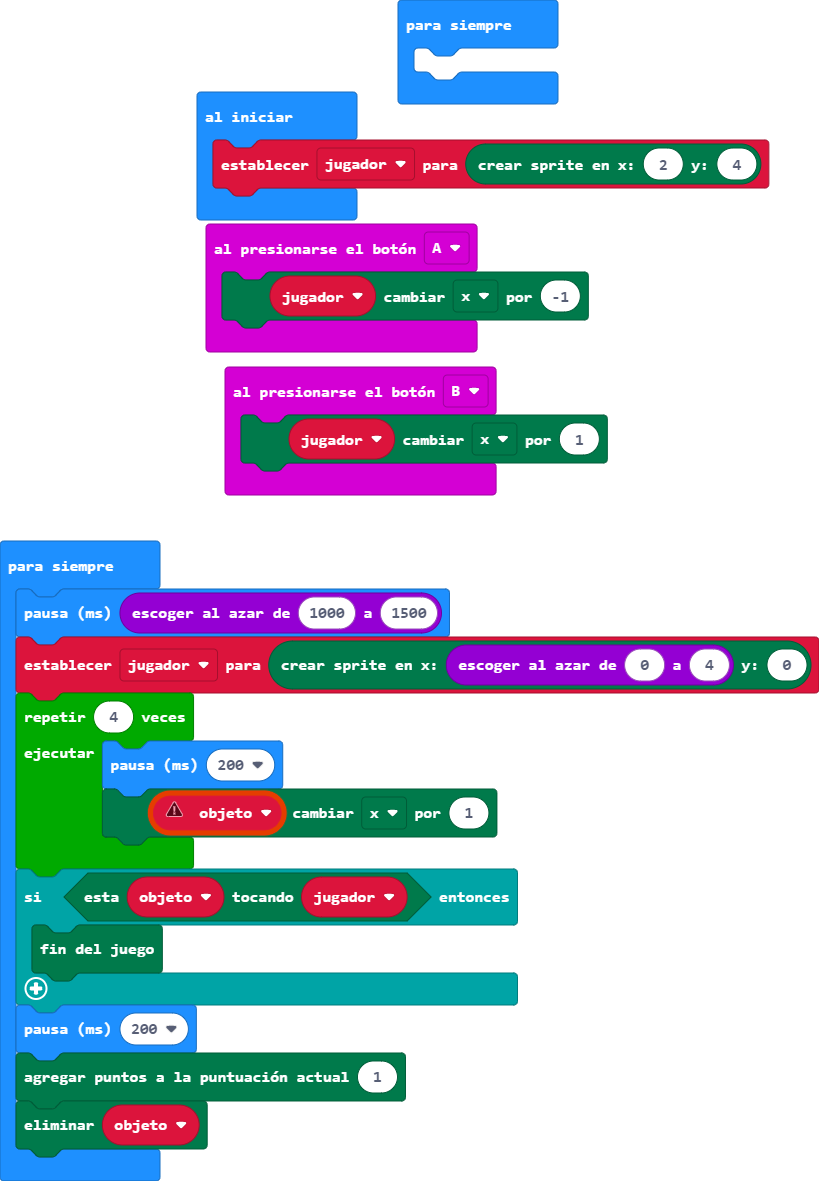
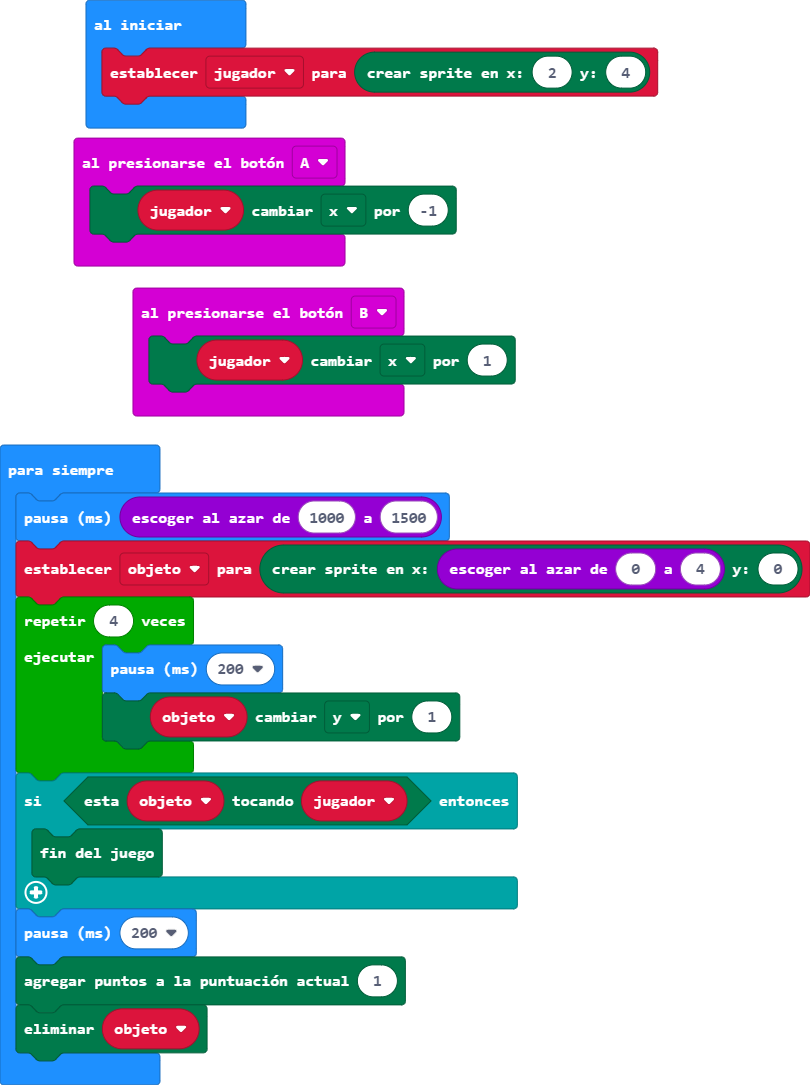
Actualizar main.blocks, main.ts

diff --git a/main.ts b/main.ts
@@ -4,18 +4,15 @@ input.onButtonPressed(Button.A, function () {
 input.onButtonPressed(Button.B, function () {
     jugador.change(LedSpriteProperty.X, 1)
 })
+let objeto: game.LedSprite = null
 let jugador: game.LedSprite = null
 jugador = game.createSprite(2, 4)
 basic.forever(function () {
-	
-})
-basic.forever(function () {
-    let objeto: game.LedSprite = null
     basic.pause(randint(1000, 1500))
-    jugador = game.createSprite(randint(0, 4), 0)
+    objeto = game.createSprite(randint(0, 4), 0)
     for (let index = 0; index < 4; index++) {
         basic.pause(200)
-        objeto.change(LedSpriteProperty.X, 1)
+        objeto.change(LedSpriteProperty.Y, 1)
     }
     if (objeto.isTouching(jugador)) {
         game.gameOver()
